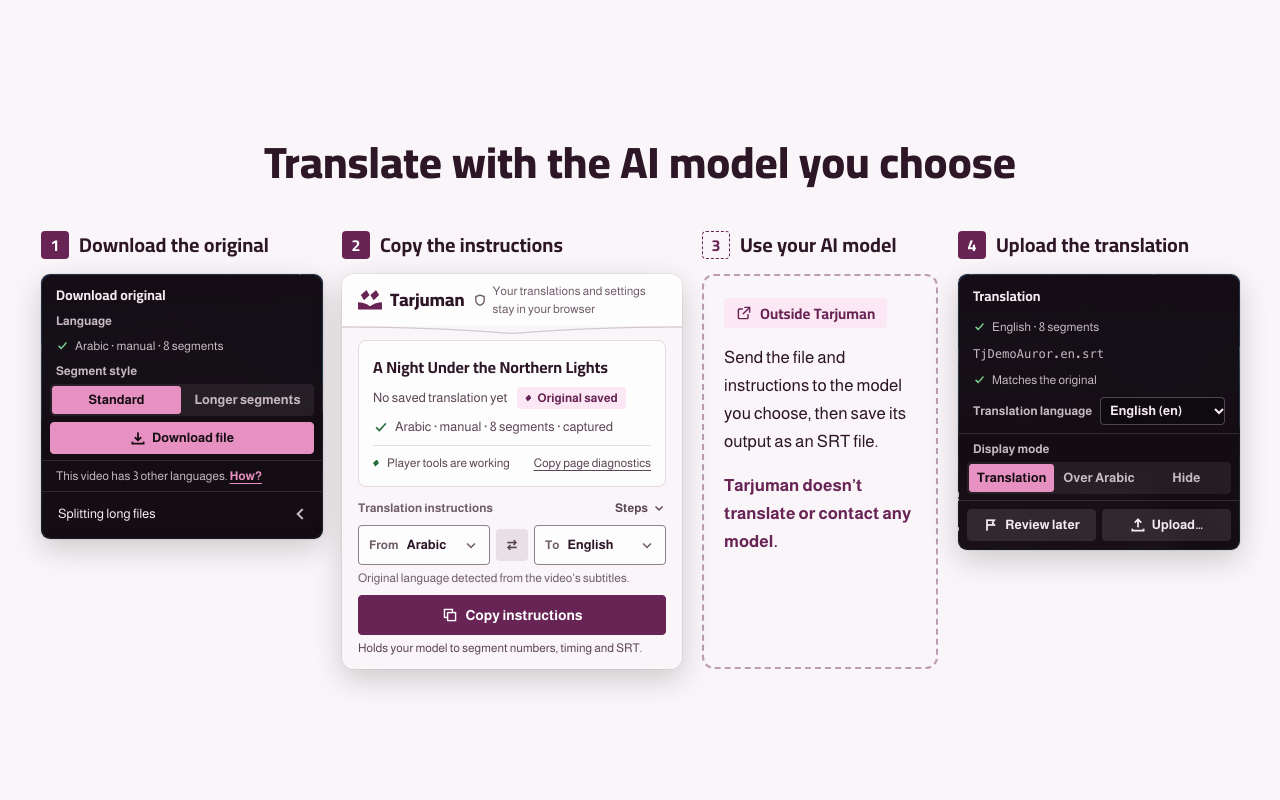
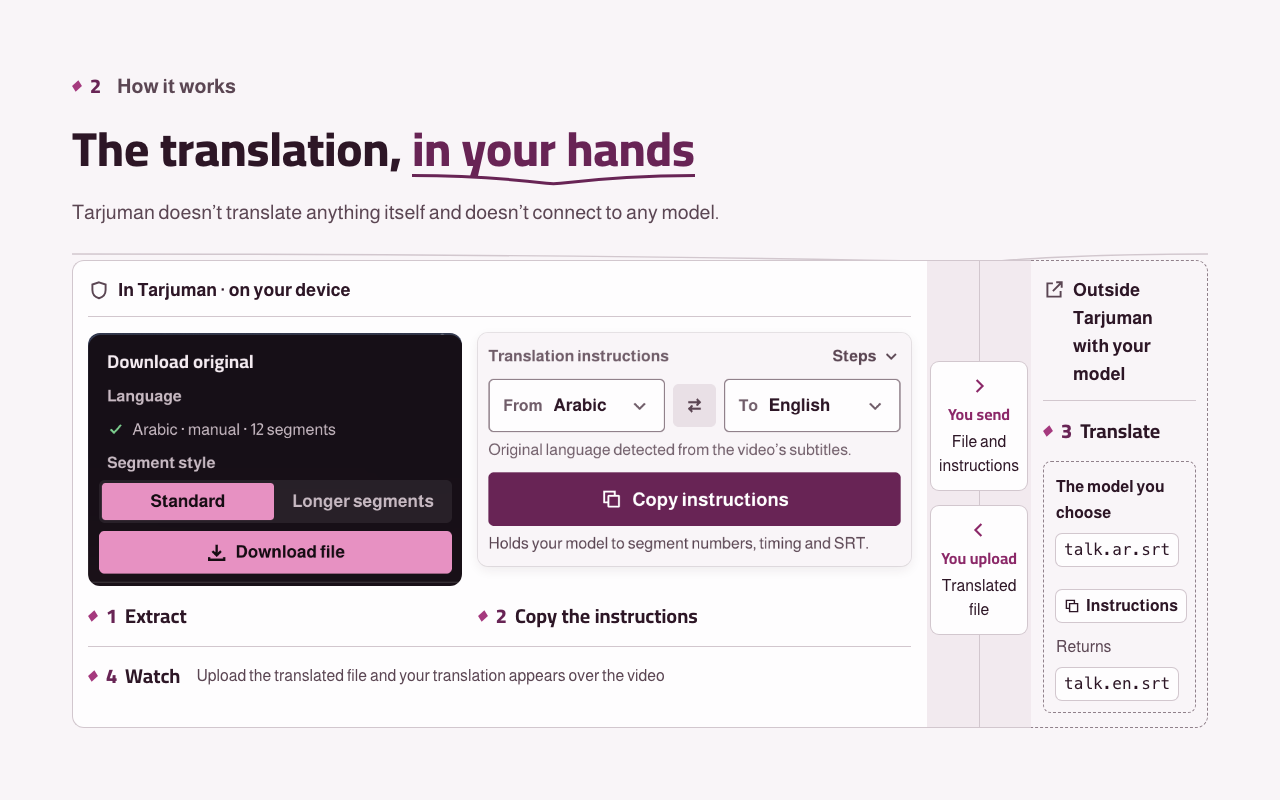
لقطات المتجر على نظام بصري واحد اعتمده سلطان (ST3): السلسلة كاملة معادة التصميم بالعربية والإنجليزية بمقاسي Chromium (1280×800) وFirefox (1280×960)، لا ترقيعًا للأولى. العنوان أعلى البداية في الخمس، ثم الواجهة بحجم يُقرأ (أصغر نص 16 بكسلًا عند 1280) وحاشية بعلامات مرقّمة بنقطة القلم، والثانية «صفحتا

diff --git a/store/README.md b/store/README.md
@@ -319,11 +319,15 @@
 | [`reviewers.en.md`](reviewers.en.md) | ملاحظات المراجعين بالإنجليزية لكل متجر، ومعها مقاطع عربية للتجربة |
 | `icons/` | `chrome-store-icon-128.png` (البلاطة 96 بحشو شفاف 16)، و`edge-logo-300.png`. والبلاطة تطابق أيقونة الإضافة المشحونة (`src/icons/tarjuman-icon-128.png`) إلا تنعيم الزوايا |
 | `promo/` | `small-promo-440x280.png` (Chrome وEdge)، و`marquee-1400x560.png` (Chrome Marquee وEdge Large) |
-| `screenshots/chromium/{ar,en}/` | خمس لقطات 1280×800 لكل لغة لـChrome وEdge: `01-overlay` و`02-workflow` و`03-timing` و`04-appearance` و`05-editor` |
+| `screenshots/chromium/{ar,en}/` | خمس لقطات 1280×800 لكل لغة لـChrome وEdge: `01-overlay` (فوق الفيديو) و`02-workflow` (كيف يعمل) و`03-timing` (التوقيت) و`04-panel` (النص المتزامن) و`05-editor` (محرّر للمراجعة) |
 | `screenshots/firefox/{ar,en}/` | الخمس نفسها بمقاس 1280×960 لـAMO، والواجهة لا تُمط |
 | [`test-files/`](test-files/README.md) | ملف الترجمة الإنجليزية لفيديو اللقطات كما نزّله ترجمان، وترجمته العربية |
 
-**مصدر الصور:** اللقطات العشرون في `screenshots/` وصور `.github/assets` (2026-11-14، ST3 من خطة 3.0.0) مرسومة من واجهة 3.0.0 بالهوية الخامسة «التاء» كما يراها المستخدم: حزمة المتجر لـChromium المبنية من الالتزام `a8154285` (بصمة الأرشيف `b7d91a7f…`)، في Chrome بلا نافذة على مشغّل محلي تجريبي، وكل طلب يوتيوب مخدوم محليًا، ثم تُركّب بقوالب لوحة الهوية I17. والواجهة فيها هي الصفحات والقوائم المبنية نفسها، لا رسم يدوي. والمشاهد صُنعت لترجمان: مشهد القمر في الصورة الأولى والغلاف وصورة الخطوات من إعلان سلطان لترجمان (إطار الثانية 4 من `tarjuman-ad-ar-4k-New.mp4`)، وبقيتها مشاهد المولّد في مجلد العمل المحلي `tarjuman-images/` غير المتتبع، بقرار سلطان (2026-11-14). ولا فيلم من غير ترجمان، ولا رقم إصدار على أي صورة. وصورة الخطوات على ترتيب المسودة المتحركة لإعلانه: صفحتا «في ترجمان · على جهازك» و«خارج ترجمان · عند نموذجك». أما البلاطتان في `promo/` فمن رسم اللوحة I17 نفسه، بلا نص غير الشعار.
+**مصدر الصور:** الواجهة في كل الصور واجهة 3.0.0 بالهوية الخامسة «التاء» كما يراها المستخدم (2026-11-14، ST3 من خطة 3.0.0): حزمة المتجر لـChromium المبنية من الالتزام `a8154285` (بصمة الأرشيف `b7d91a7f…`)، في Chrome بلا نافذة على مشغّل محلي تجريبي، وكل طلب يوتيوب مخدوم محليًا. فهي الصفحات والقوائم المبنية نفسها، لا رسم يدوي. ولا فيلم من غير ترجمان، ولا رقم إصدار على أي صورة. والمولّد في مجلد العمل المحلي `tarjuman-images/_source/3.0.0/` غير المتتبع، ومعه مواصفة نظام اللقطات (`store-system.ar.md`).
+
+- **اللقطات العشرون في `screenshots/`:** سلسلة واحدة على نظام بصري اعتمده سلطان (2026-11-14). العنوان أعلى البداية في الخمس، ثم الواجهة وحاشية بعلامات مرقّمة، والثانية «صفحتان»: «في ترجمان · على جهازك» و«خارج ترجمان · عند نموذجك». ونصوصها من نص الموقع (`docs/site/tarjuman.md` و`tarjuman.en.md`). والمشهد فيها فيلم متخيّل واحد «قبل البوصلة» مرسوم برمجيًا لترجمان، فلا مشهد من الإعلان فيها.
+- **صور `.github/assets`:** مركّبة بقوالب لوحة الهوية I17. ومشهد القمر في الغلاف وصورة الخطوات وأولى صور المعرض من إعلان سلطان لترجمان (إطار الثانية 4 من `tarjuman-ad-ar-4k-New.mp4`)، وبقيتها مشاهد المولّد، بقرار سلطان (2026-11-14). وصورة الخطوات على ترتيب المسودة المتحركة لإعلانه.
+- **البلاطتان في `promo/`:** من رسم اللوحة I17 نفسه، بلا نص غير الشعار.
 
 ### تغطية حقول §٣
 

diff --git a/docs/development.md b/docs/development.md
@@ -101,7 +101,7 @@ npm run package
 | المقاطع بين `<!-- tj:facts الاسم -->` و`<!-- /tj:facts الاسم -->` في `README.md` و`README.en.md` و`user-guide.md` (التثبيت والمتاجر والأذونات وملخص الخصوصية) | [`facts.json`](facts.json) (ح2) | `node scripts/docs/facts.mjs` (و`--check` في `npm run check`، ومعه مطابقة روابط المتاجر والحدود الدنيا وبريد الدعم في `site/` و`store/` بلا علامات، وبنية النسخ العربية والإنجليزية) |
 | `THIRD_PARTY_NOTICES.txt` | تراخيص الخطوط والأيقونات وأدوات البناء | `npm run notices` |
 | أيقونات الإضافة `src/icons` وأيقونتا المتجر `store/icons` وملفا الرمز `tools/brand/tarjuman-T*.svg` | مسارات الشعار في `src/ui/logo.js`، وأيقونتا 16 و32 المرسومتان بكسلًا في `tools/brand/pixel/` | `node tools/brand/icons.mjs` (و`--check`): ينسخ 16 و32 كما هما، ويولّد ملفي الرمز، ويُبقي البلاطات المرسومة (48 و128 وEdge) ما دامت ضمن حدّ التنعيم من رسمه للهندسة نفسها |
-| صور `.github/assets` ولقطات `store/screenshots/{chromium,firefox}/{ar,en}` و`store/promo` | مجلد العمل المحلي `tarjuman-images/` (غير متتبع) | `tarjuman-images/_source/compose.mjs`، ثم تُنسخ النتائج إلى مواضعها. ولا رقم إصدار على أي صورة |
+| صور `.github/assets` ولقطات `store/screenshots/{chromium,firefox}/{ar,en}` و`store/promo` | مجلد العمل المحلي `tarjuman-images/` (غير متتبع) | في `tarjuman-images/_source/3.0.0/`: `capture.mjs` و`compose.mjs` لصور `.github/assets` والبلاطتين، و`capture2.mjs` و`compose3.mjs` للقطات المتجر على نظامها (`store-system.ar.md` بجانبها)، ثم تُنسخ النتائج إلى مواضعها. ولا رقم إصدار على أي صورة |
 | نصوص صفحات الموقع | [`site`](site/README.md) | مولّد النصوص في مستودع الموقع |
 
 ## الإصدار والمتاجر

diff --git a/scripts/release/v2-readme.md b/scripts/release/v2-readme.md
@@ -29,15 +29,17 @@
 
 ### مواد المتاجر
 
-الأيقونات من مصدر الشعار (`tools/brand/icons.mjs`). واللقطات والبلاطات لقطات حقيقية من حزمة ترجمان على مشغّل محلي تجريبي، ومولّدها في مجلد العمل المحلي `tarjuman-images/` غير المتتبع (`store/README.md`). ولا رقم إصدار على أي صورة.
+الأيقونات من مصدر الشعار (`tools/brand/icons.mjs`). والواجهة في اللقطات حقيقية من حزمة ترجمان على مشغّل محلي تجريبي، والبلاطتان من رسم لوحة الهوية، ومولّدها في مجلد العمل المحلي `tarjuman-images/` غير المتتبع (`store/README.md`). ولا رقم إصدار على أي صورة.
 
 | المادة | المقاس | Chrome | Edge | AMO |
 | --- | --- | --- | --- | --- |
 | أيقونة المتجر | 128×128 (الرسم 96 بحشو شفاف 16) | ✓ | — | — |
 | شعار الإضافة | 300×300 | — | ✓ | — |
-| `01-overlay` الطبقة والشريط واللوحة | 1280×800، و1280×960 لـAMO | ✓ | ✓ | ✓ |
-| `02-popup` النافذة والزوج اللغوي | 1280×800، و1280×960 لـAMO | ✓ | ✓ | ✓ |
-| `03-editor` المحرّر | 1280×800، و1280×960 لـAMO | ✓ | ✓ | ✓ |
+| `01-overlay` الترجمة فوق الفيديو | 1280×800، و1280×960 لـAMO | ✓ | ✓ | ✓ |
+| `02-workflow` كيف يعمل، والترجمة بيد المستخدم | 1280×800، و1280×960 لـAMO | ✓ | ✓ | ✓ |
+| `03-timing` المزامنة من شريط المشغّل | 1280×800، و1280×960 لـAMO | ✓ | ✓ | ✓ |
+| `04-panel` النص المتزامن | 1280×800، و1280×960 لـAMO | ✓ | ✓ | ✓ |
+| `05-editor` المحرّر والمقارنة بالأصل | 1280×800، و1280×960 لـAMO | ✓ | ✓ | ✓ |
 | البلاطة الصغيرة | 440×280 | ✓ | ✓ | — |
 | Marquee / Large tile | 1400×560 | ✓ | ✓ | — |
 
